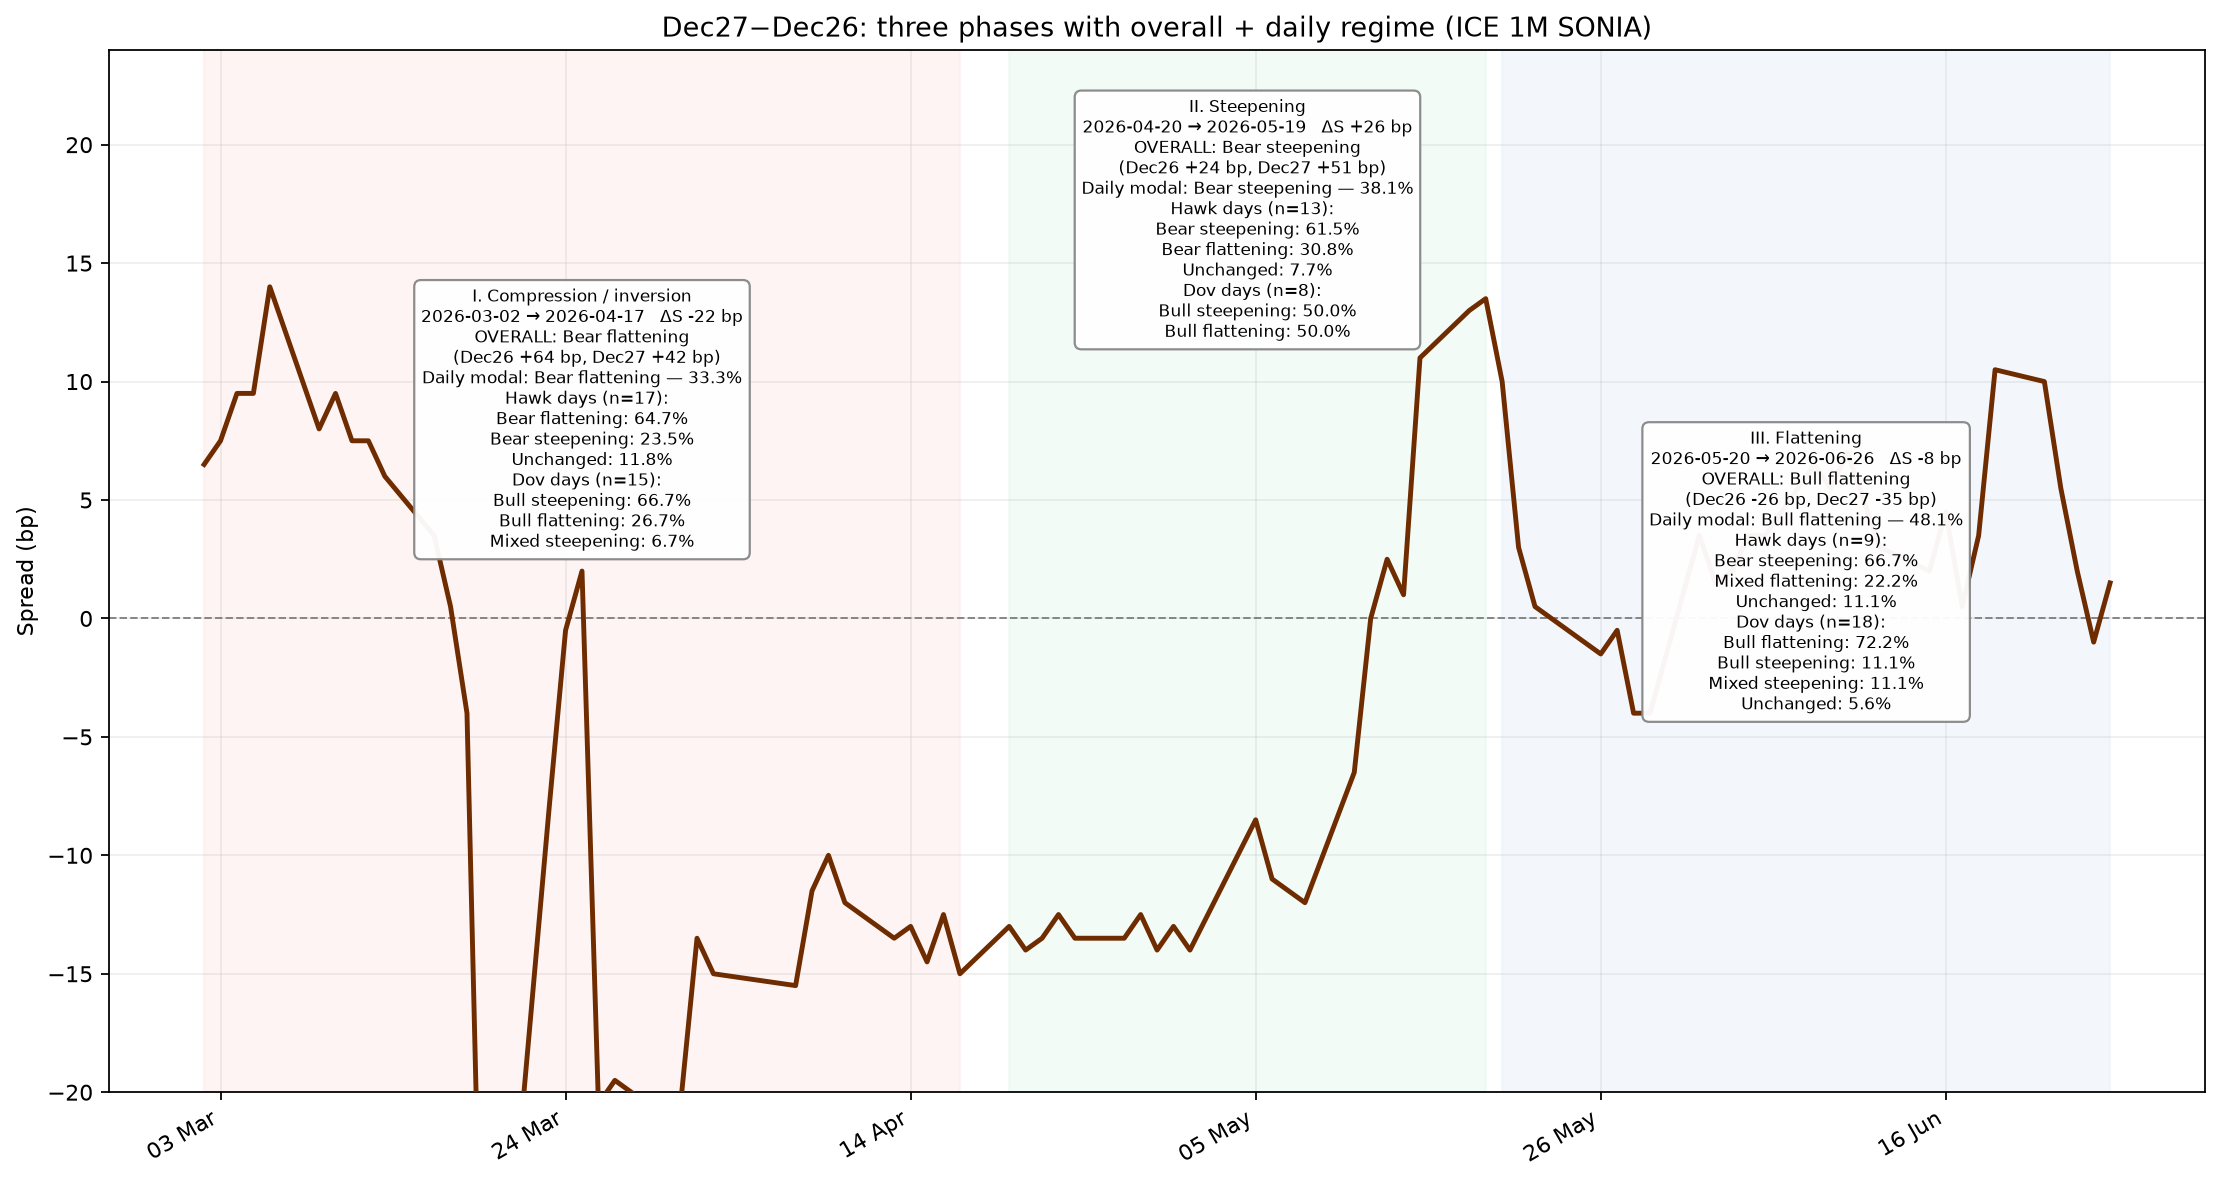
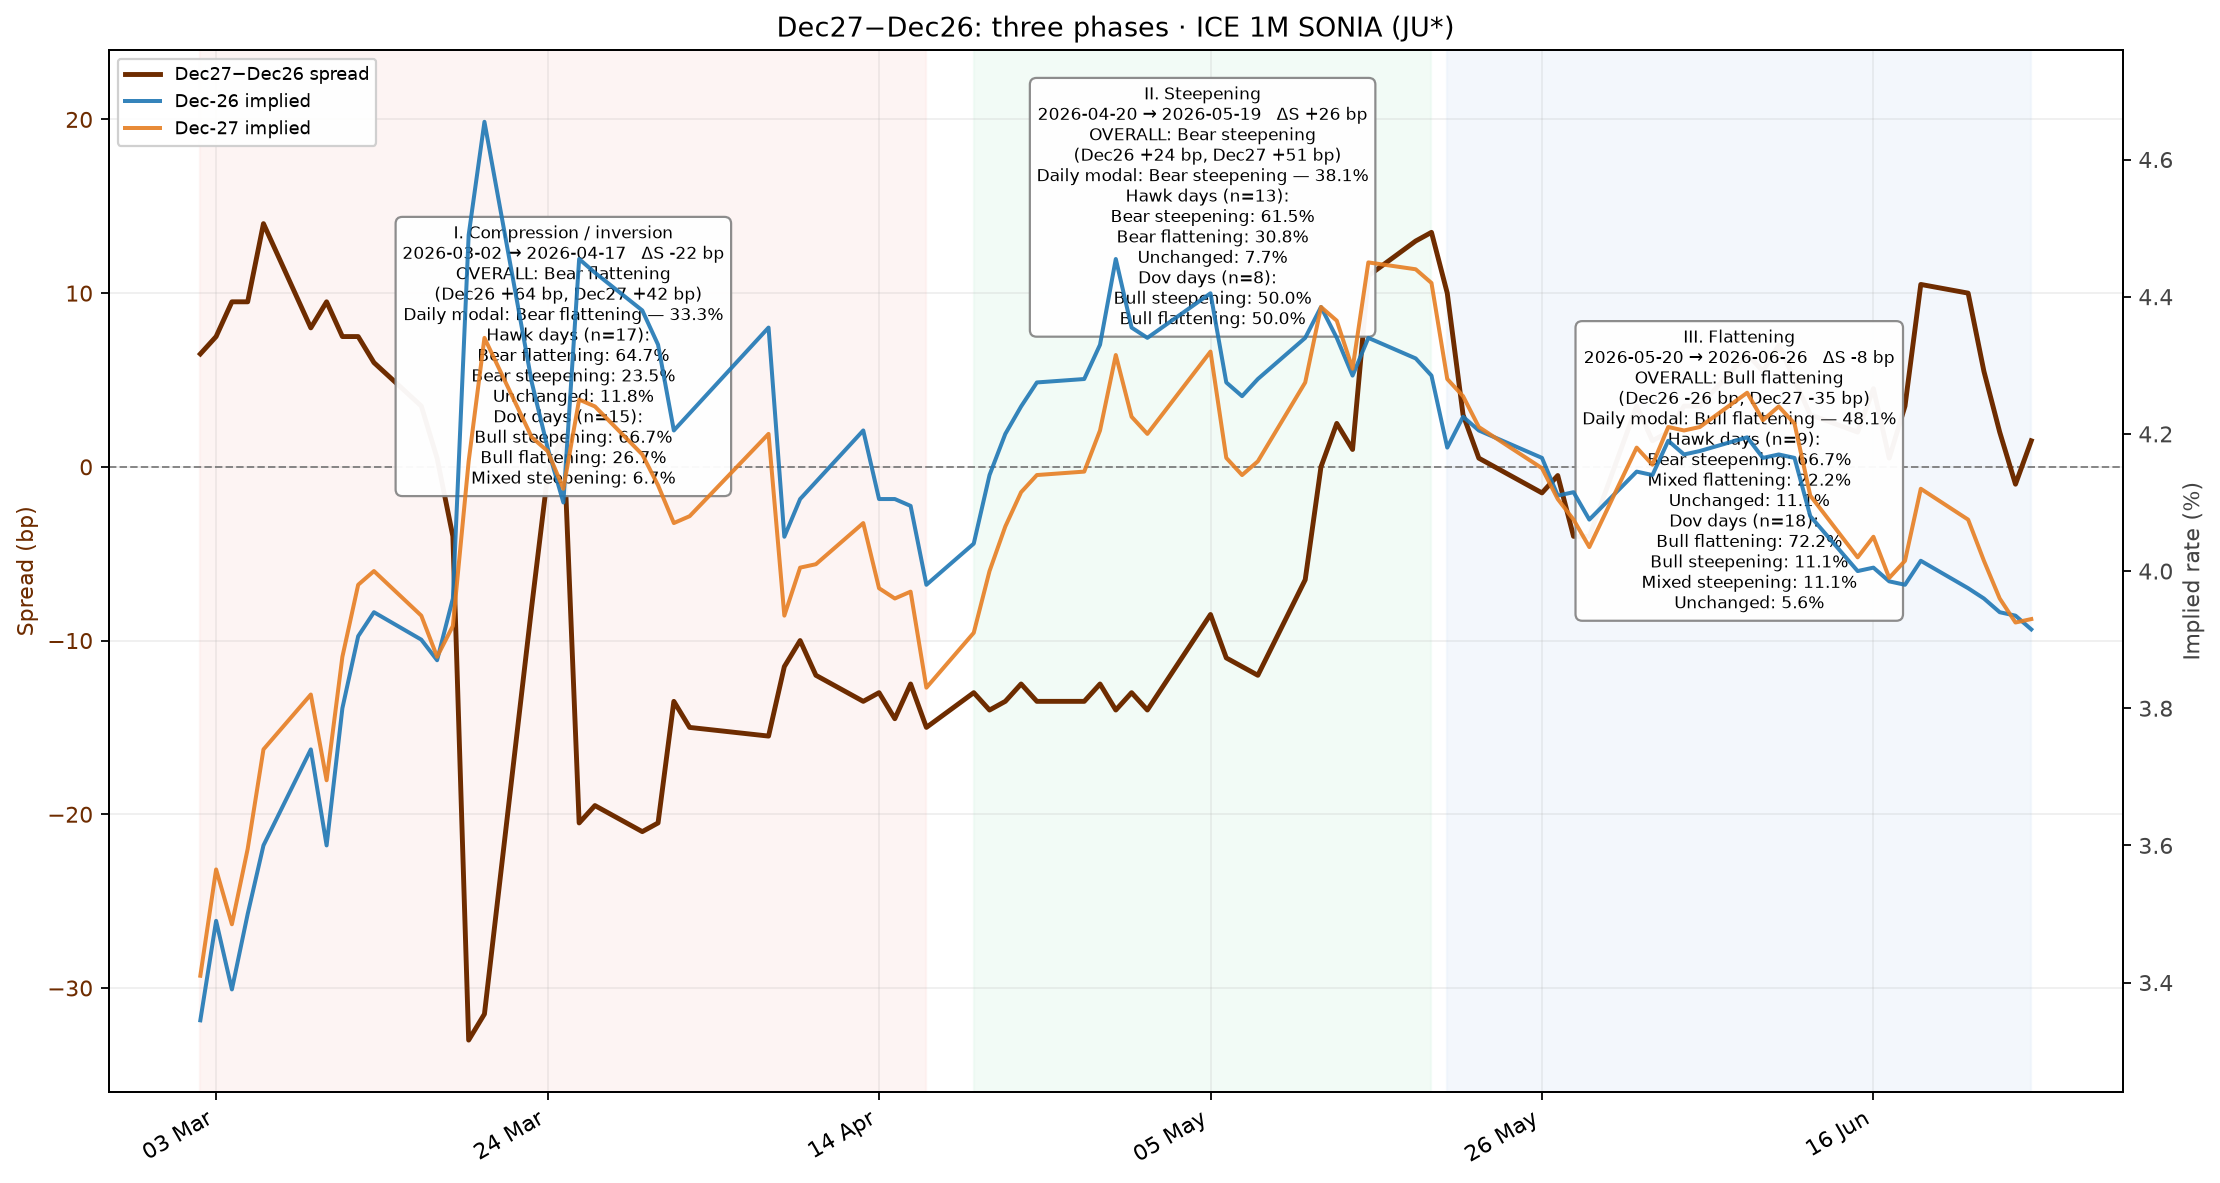
Add second y-axis with Dec26/Dec27 implied rates on phase chart

diff --git a/build_dec27_dec26_spread_chart.py b/build_dec27_dec26_spread_chart.py
@@ -195,16 +195,25 @@ def make_simple_chart(spread: pd.Series, cfg: dict) -> None:
     plt.close(fig)
 
 
-def make_labeled_chart(spread: pd.Series, stats: list[dict], cfg: dict) -> None:
+def make_labeled_chart(spread: pd.Series, stats: list[dict], cfg: dict, rates: pd.DataFrame) -> None:
     start = pd.Timestamp(stats[0]["start"])
     end = pd.Timestamp(stats[-1]["end"])
     path = spread.loc[start:end]
+    legs = rates.loc[start:end, ["dec26", "dec27"]]
     fills = {"I": "#fdecea", "II": "#e8f8f0", "III": "#eaf2fb"}
     ypos = {"I": 14, "II": 22, "III": 8}
+    dec26_color = "#1f77b4"
+    dec27_color = "#e67e22"
 
     fig, ax = plt.subplots(figsize=(14, 7.5))
-    ax.plot(path.index, path.values, color=cfg["line_color"], lw=2.2, zorder=3)
+    spread_line, = ax.plot(path.index, path.values, color=cfg["line_color"], lw=2.2, zorder=3, label="Dec27−Dec26 spread")
     ax.axhline(0, color="#666", ls="--", lw=0.9, alpha=0.75)
+
+    ax2 = ax.twinx()
+    ax2.plot(legs.index, legs["dec26"], color=dec26_color, lw=1.8, alpha=0.9, zorder=2, label="Dec-26 implied")
+    ax2.plot(legs.index, legs["dec27"], color=dec27_color, lw=1.8, alpha=0.9, zorder=2, label="Dec-27 implied")
+    ax2.set_ylabel("Implied rate (%)", color="#444")
+    ax2.tick_params(axis="y", labelcolor="#444")
 
     for st in stats:
         s = pd.Timestamp(st["start"])
@@ -233,14 +242,22 @@ def make_labeled_chart(spread: pd.Series, stats: list[dict], cfg: dict) -> None:
         )
 
     ax.set_title(f"Dec27−Dec26: three phases · {cfg['label']}")
-    ax.set_ylabel("Spread (bp)")
+    ax.set_ylabel("Spread (bp)", color=cfg["line_color"])
+    ax.tick_params(axis="y", labelcolor=cfg["line_color"])
     ax.xaxis.set_major_formatter(mdates.DateFormatter("%d %b"))
     ax.xaxis.set_major_locator(mdates.WeekdayLocator(interval=3))
     fig.autofmt_xdate(rotation=30, ha="right")
     ymin = min(-20, float(path.min()) - 3)
     ymax = max(24, float(path.max()) + 3)
     ax.set_ylim(ymin, ymax)
-    ax.grid(True, alpha=0.2)
+    leg_pad = max(0.05, (legs.max().max() - legs.min().min()) * 0.08)
+    ax2.set_ylim(float(legs.min().min()) - leg_pad, float(legs.max().max()) + leg_pad)
+    ax.grid(True, alpha=0.2, zorder=0)
+
+    lines = [spread_line] + ax2.lines
+    labels = [ln.get_label() for ln in lines]
+    ax.legend(lines, labels, loc="upper left", fontsize=8, framealpha=0.92)
+
     fig.tight_layout()
     cfg["chart_labeled"].parent.mkdir(parents=True, exist_ok=True)
     fig.savefig(cfg["chart_labeled"], dpi=160, bbox_inches="tight")
@@ -268,7 +285,7 @@ def run(tenor: str) -> None:
     )
     cfg["json_file"].write_text(json.dumps(payload, indent=2), encoding="utf-8")
     make_simple_chart(spread, cfg)
-    make_labeled_chart(spread, stats, cfg)
+    make_labeled_chart(spread, stats, cfg, rates)
     print(f"Wrote {cfg['chart_labeled']}")
     print(f"Wrote {cfg['chart_simple']}")
     print(f"Wrote {cfg['json_file']}")